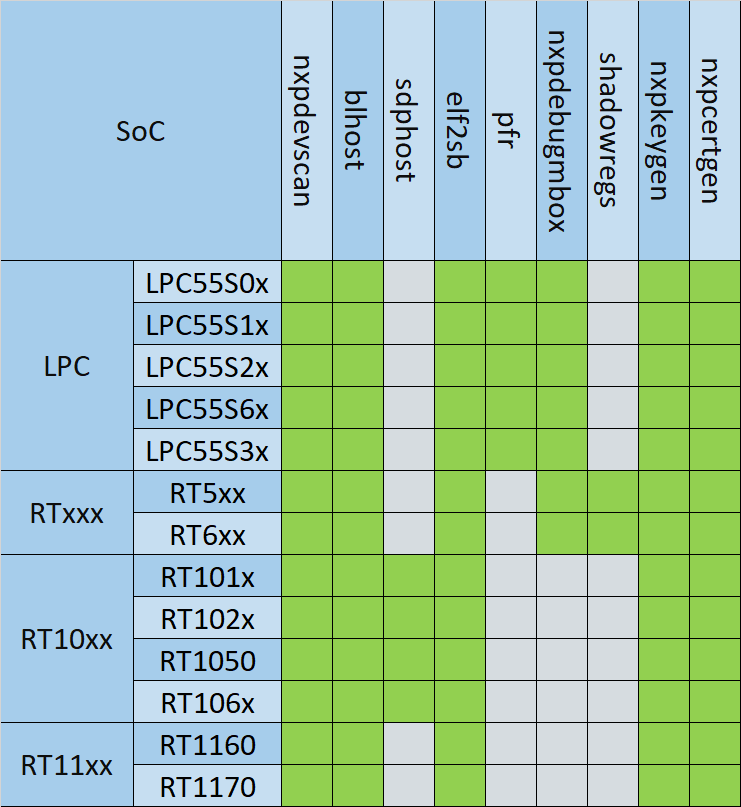
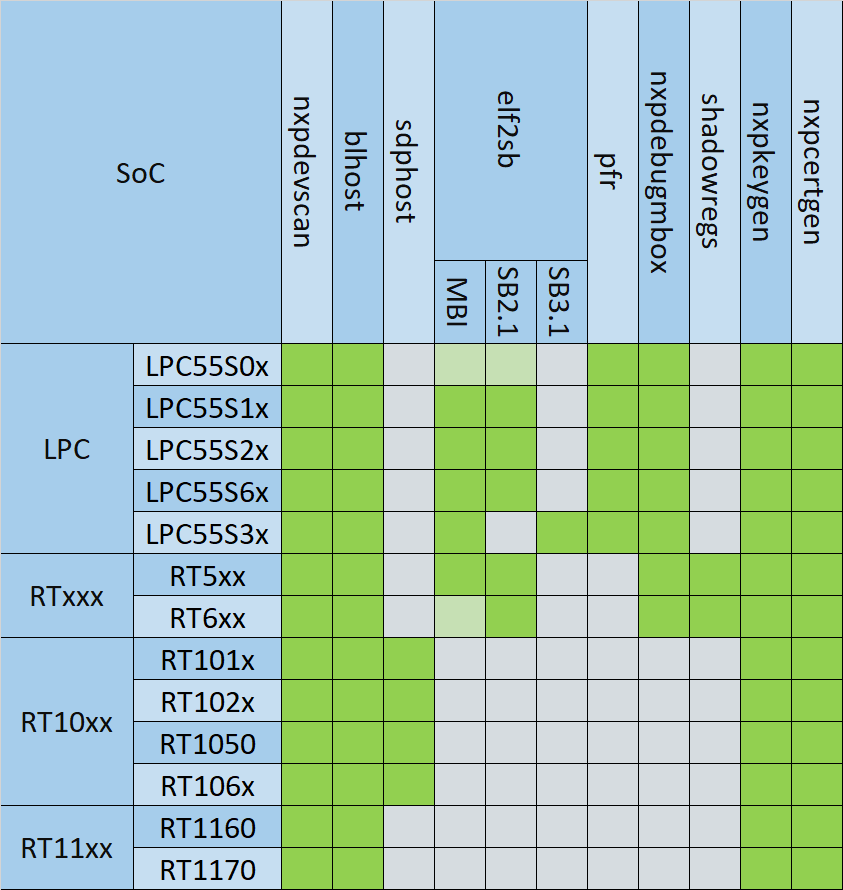
check

diff --git a/spsdk/apps/nxpkeygen.py b/spsdk/apps/nxpkeygen.py
@@ -6,13 +6,13 @@
 # SPDX-License-Identifier: BSD-3-Clause
 
 """Module is used to generate public/private key and generating debug credential file."""
-import json
 import logging
 import os
 import sys
-from typing import List, Tuple
+from typing import List, Tuple, Type
 
 import click
+import commentjson as json
 import yaml
 
 from spsdk import SPSDK_DATA_FOLDER
@@ -37,7 +37,7 @@ logger = logging.getLogger(__name__)
 LOG_LEVEL_NAMES = [name.lower() for name in logging._nameToLevel]
 
 
-@click.group()
+@click.group(no_args_is_help=True)
 @click.option(
     "-p",
     "--protocol",
@@ -45,7 +45,14 @@ LOG_LEVEL_NAMES = [name.lower() for name in logging._nameToLevel]
     type=str,
     metavar="VERSION",
     default="1.0",
-    help="Set the protocol version. Default is 1.0 (RSA). ",
+    help =
+        """Set the protocol version. Default is 1.0 (RSA).\n
+        NXP Protocol Version        Encryption Type\n
+        1.0                         RSA 2048\n
+        1.1                         RSA 4096\n
+        2.0                         NIST P-256 SECP256R1\n
+        2.1                         NIST P-384 SECP384R1\n
+        2.2                         NIST P-521 SECP521R1\n"""
 )
 @click.option(
     "-d",
@@ -153,12 +160,15 @@ def genkey(ctx: click.Context, path: str, password: str, force: bool) -> None:
     """Generate key pair for RoT or DCK.
 
     \b
-    PATH    - path where the key pairs will be stored
+    PATH    - output file path, where the key pairs (private and public key) will be stored.
+              Each key will be stored in separate file (.pub and .pem).
     """
     is_rsa = ctx.obj["is_rsa"]
     key_param = ctx.obj["key_param"]
     check_destination_dir(path, force)
     check_file_exists(path, force)
+    pub_key_path = os.path.splitext(path)[0] + ".pub"
+    check_file_exists(pub_key_path, force)
 
     if is_rsa:
         logger.info("Generating RSA private key...")
@@ -167,7 +177,7 @@ def genkey(ctx: click.Context, path: str, password: str, force: bool) -> None:
         pub_key_rsa = generate_rsa_public_key(priv_key_rsa)
         logger.info("Saving RSA key pair...")
         save_rsa_private_key(priv_key_rsa, path, password if password else None)
-        save_rsa_public_key(pub_key_rsa, os.path.splitext(path)[0] + ".pub")
+        save_rsa_public_key(pub_key_rsa, pub_key_path)
     else:
         logger.info("Generating ECC private key...")
         priv_key_ec = generate_ecc_private_key(curve_name=key_param)
@@ -175,7 +185,7 @@ def genkey(ctx: click.Context, path: str, password: str, force: bool) -> None:
         pub_key_ec = generate_ecc_public_key(priv_key_ec)
         logger.info("Saving ECC key pair...")
         save_ecc_private_key(priv_key_ec, path, password if password else None)
-        save_ecc_public_key(pub_key_ec, os.path.splitext(path)[0] + ".pub")
+        save_ecc_public_key(pub_key_ec, pub_key_path)
 
 
 @main.command()

diff --git a/docs/usage/applications.rst b/docs/usage/applications.rst
@@ -45,6 +45,9 @@ SPSDK applications are used for various functions and not all applications are v
     :align: center
     :scale: 50 %
 
+.. note:: Please note that elftosb features marked with light green are supported but not tested and should be used with caution.
+
+
 :ref:`blhost`
 =============
 
